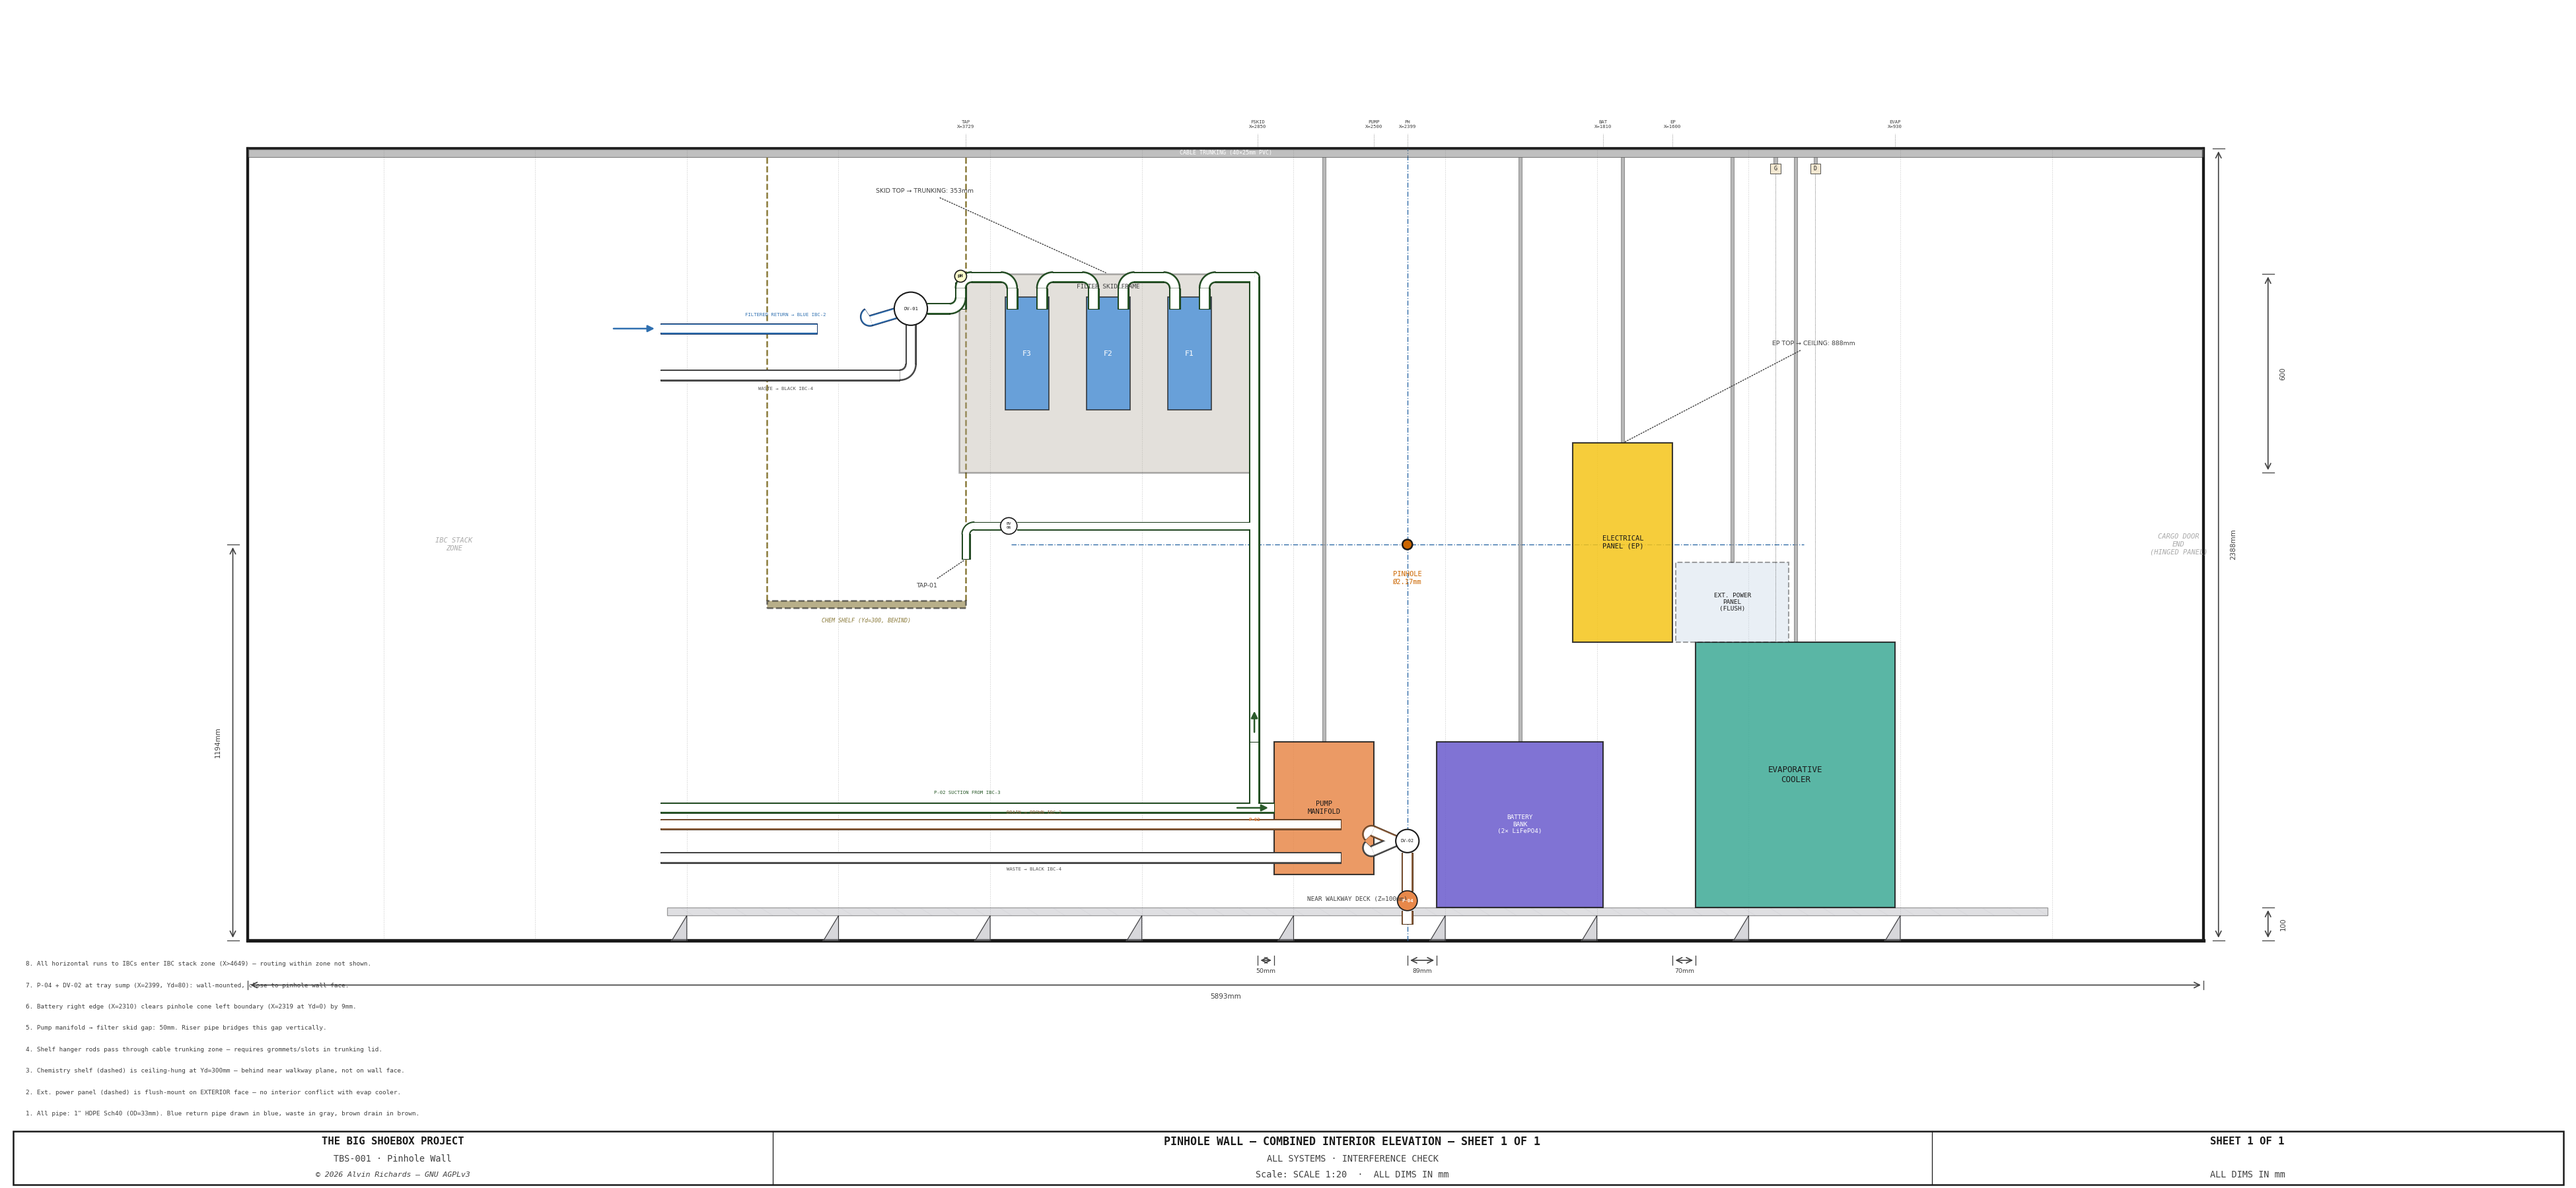
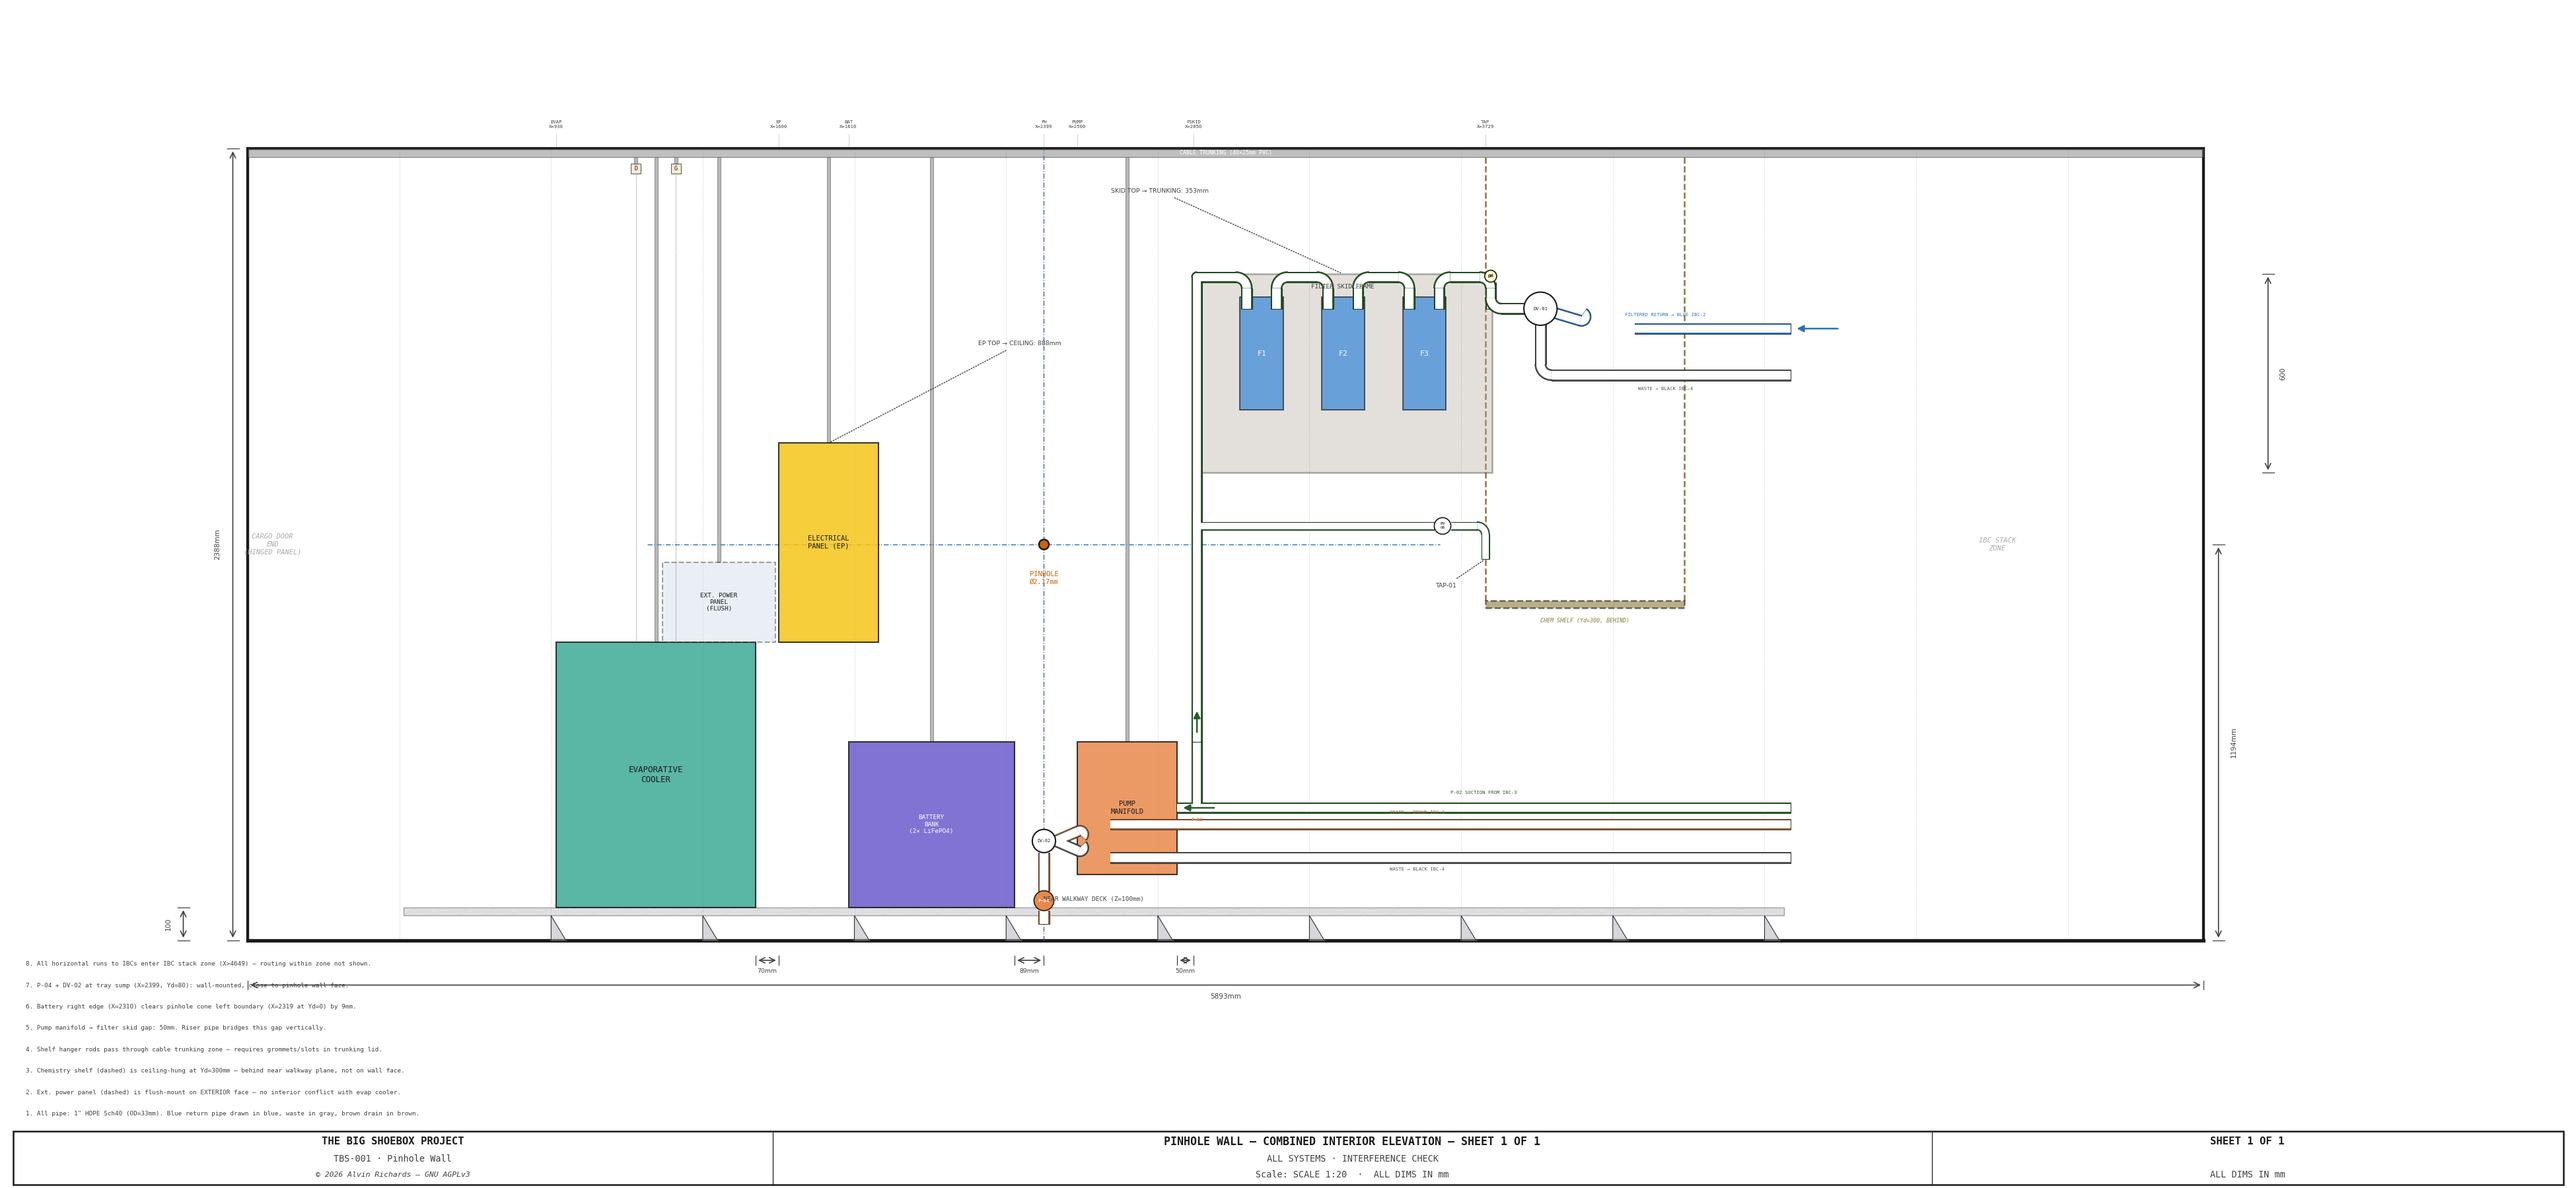
Flip pinhole wall elevation to match filter-skid-sheet1 orientation
Remove X-axis mirroring from sx() so the elevation uses the same
viewing convention as filter-skid-sheet1: low X (cargo door) on
the left, high X (IBC zone) on the right. Fix equip_block rectangle
origin, swap left/right dimension lines, and adjust leader directions.

diff --git a/generate_pinhole_wall_elevation.py b/generate_pinhole_wall_elevation.py
@@ -89,9 +89,9 @@ OZ = 2.5    # drawing origin Z offset (inches) — room for notes below
 
 def sx(x_mm):
     """Convert X position (mm) to drawing x coordinate.
-    Mirrored: viewing from inside container toward pinhole wall,
-    high X (IBC end) is on the LEFT, low X (cargo door) on the RIGHT."""
-    return OX + (C_LEN - x_mm) * S
+    Non-mirrored: matches filter-skid-sheet1 convention.
+    Low X (cargo door) on LEFT, high X (IBC end) on RIGHT."""
+    return OX + x_mm * S
 
 def sz(z_mm):
     """Convert Z position (mm) to drawing y coordinate."""
@@ -112,9 +112,8 @@ def equip_block(x_mm, z_mm, w_mm, h_mm, label, fc, *,
                 ec=C_OUT, lw=1.0, zorder=5, ls="-", alpha=0.85,
                 label_fs=5.5, label_color=C_OUT):
     """Draw a filled rectangle with centered label."""
-    # sx() is mirrored, so sx(x_mm + w_mm) < sx(x_mm) — use the left corner
-    x_draw = sx(x_mm + w_mm)
-    w_draw = sx(x_mm) - sx(x_mm + w_mm)  # positive width in drawing space
+    x_draw = sx(x_mm)
+    w_draw = w_mm * S  # positive width in drawing space
     rect = mpatches.FancyBboxPatch(
         (x_draw, sz(z_mm)), w_draw, h_mm * S,
         boxstyle="square,pad=0", facecolor=fc, edgecolor=ec,
@@ -234,9 +233,9 @@ def draw_pipe_path(ax, x_pts, z_pts, od_mm, wall_mm,
 # ═══════════════════════════════════════════════════════════════════════════
 # 1. CONTAINER OUTLINE
 # ═══════════════════════════════════════════════════════════════════════════
-# Outer rectangle — sx() is mirrored, so sx(C_LEN) < sx(0)
-wall_left = sx(C_LEN)   # left edge of container in drawing space
-wall_right = sx(0)       # right edge
+# Outer rectangle
+wall_left = sx(0)        # left edge of container in drawing space
+wall_right = sx(C_LEN)   # right edge
 wall_w = wall_right - wall_left
 ax.add_patch(mpatches.Rectangle(
     (wall_left, sz(0)), wall_w, C_HGT * S,
@@ -325,12 +324,12 @@ while bx <= WK_X_R:
     bx += CONTAINER_RIB_SPACING
 
 # ── Zone labels for empty areas ───────────────────────────────────────────
-# Left end zone (X=0–150mm, cargo door / hinged panel)
+# Left end zone (X=0–150mm, cargo door / hinged panel) — left side of drawing
 ax.text(sx(75), sz(C_HGT / 2), "CARGO DOOR\nEND\n(HINGED PANEL)",
         ha="center", va="center", fontsize=5, color="#AAAAAA",
         style="italic", zorder=2, **FONT)
 
-# Right end zone (X=4649–5893mm, IBC stack)
+# Right end zone (X=4649–5893mm, IBC stack) — right side of drawing
 ax.text(sx(ZONE_R_START + (C_LEN - ZONE_R_START) / 2), sz(C_HGT / 2),
         "IBC STACK\nZONE", ha="center", va="center",
         fontsize=5, color="#AAAAAA", style="italic", zorder=2, **FONT)
@@ -612,7 +611,7 @@ ax.text(sx(BV06_X), sz(TAP_BRANCH_Z), "BV\n06",
 
 # Tap spout symbol
 leader(ax, sx(TAP_X), sz(TAP_Z),
-       sx(TAP_X + 150), sz(TAP_Z - 80),
+       sx(TAP_X - 150), sz(TAP_Z - 80),
        "TAP-01", fs=4.5, color=C_DIM, zorder=10)
 
 # ── Pull-cord switches ───────────────────────────────────────────────────
@@ -644,29 +643,29 @@ ax.text(sx((SHELF_X_L + SHELF_X_R) / 2), sz(SHELF_H - SHELF_T - 30),
 # 5. DIMENSION LINES — key clearances and positions
 # ═══════════════════════════════════════════════════════════════════════════
 
-# Right-side vertical dims (cargo door end = X=0 = right side after mirror)
-rx0 = sx(0) + 0.15        # first dim line
-rx1 = rx0 + 0.5           # second
+# Left-side vertical dims (cargo door end = X=0 = left side)
+lx0 = sx(0) - 0.15        # first dim line
+lx1 = lx0 - 0.5           # second
 
 # Full container height
-draw_dim_v(ax, rx0, sz(0), sz(C_HGT),
-           f"{C_HGT}mm", offset=0.2, fs=5, right=True)
+draw_dim_v(ax, lx0, sz(0), sz(C_HGT),
+           f"{C_HGT}mm", offset=0.2, fs=5)
 
 # Walkway deck height
-draw_dim_v(ax, rx1, sz(0), sz(WALKWAY_H),
-           f"{WALKWAY_H}", offset=0.2, fs=5, right=True)
+draw_dim_v(ax, lx1, sz(0), sz(WALKWAY_H),
+           f"{WALKWAY_H}", offset=0.2, fs=5)
+
+# Right-side vertical dims (IBC end = X=C_LEN = right side)
+rx0 = sx(C_LEN) + 0.15
+rx1 = rx0 + 0.5
+
+# Pinhole height
+draw_dim_v(ax, rx0, sz(0), sz(PH_H),
+           f"{PH_H}mm", offset=0.2, fs=5, right=True)
 
 # Filter skid Z range
 draw_dim_v(ax, rx1, sz(FSKID_Z_LO), sz(FSKID_Z_HI),
            f"{FSKID_Z_HI - FSKID_Z_LO}", offset=0.2, fs=5, right=True)
-
-# Left-side vertical dims (IBC end = X=C_LEN = left side after mirror)
-lx0 = sx(C_LEN) - 0.15
-lx1 = lx0 - 0.5
-
-# Pinhole height
-draw_dim_v(ax, lx0, sz(0), sz(PH_H),
-           f"{PH_H}mm", offset=0.2, fs=5)
 
 # ── Horizontal dims below floor ─────────────────────────────────────────────
 # Row 1: equipment widths
@@ -697,12 +696,12 @@ draw_dim_h(ax, sx(0), sx(C_LEN), row2_z,
 # ── Clearance leaders ──────────────────────────────────────────────────────
 fskid_clr = TK_Z - FSKID_Z_HI
 leader(ax, sx(FSKID_X + FSKID_W / 2), sz(FSKID_Z_HI),
-       sx(FSKID_X + FSKID_W + 250), sz(FSKID_Z_HI + 250),
+       sx(FSKID_X - 250), sz(FSKID_Z_HI + 250),
        f"SKID TOP → TRUNKING: {fskid_clr}mm", fs=4.5, color=C_DIM, zorder=10)
 
 ep_clr = C_HGT - EP_H_HI
 leader(ax, sx(EP_X + EP_W / 2), sz(EP_H_HI),
-       sx(EP_X - 300), sz(EP_H_HI + 300),
+       sx(EP_X + EP_W + 300), sz(EP_H_HI + 300),
        f"EP TOP → CEILING: {ep_clr}mm", fs=4.5, color=C_DIM, zorder=10)
 
 # ═══════════════════════════════════════════════════════════════════════════
